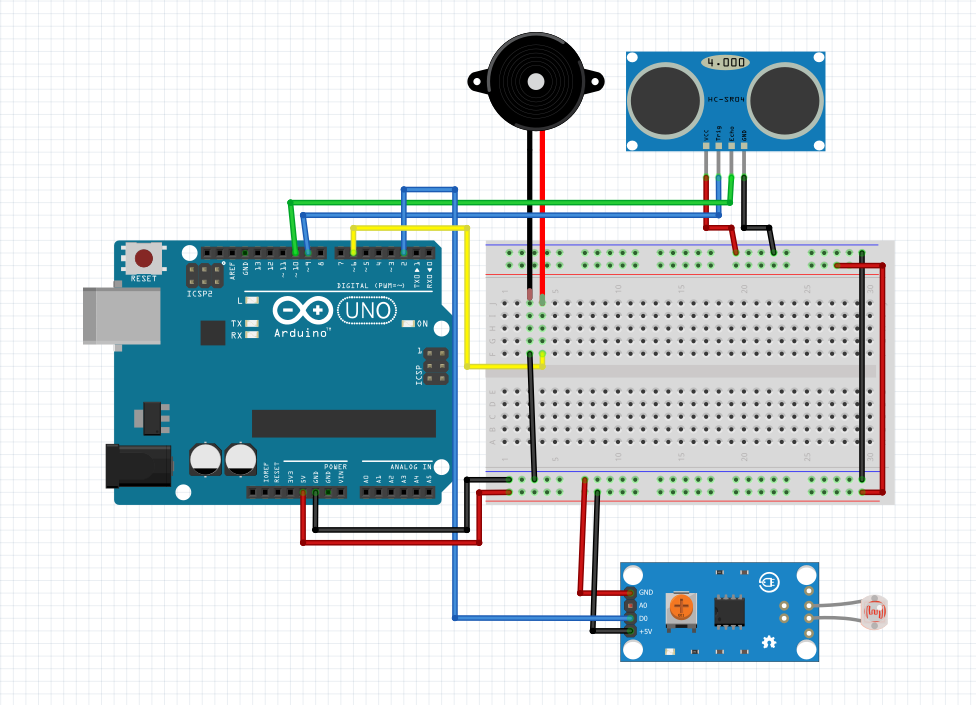
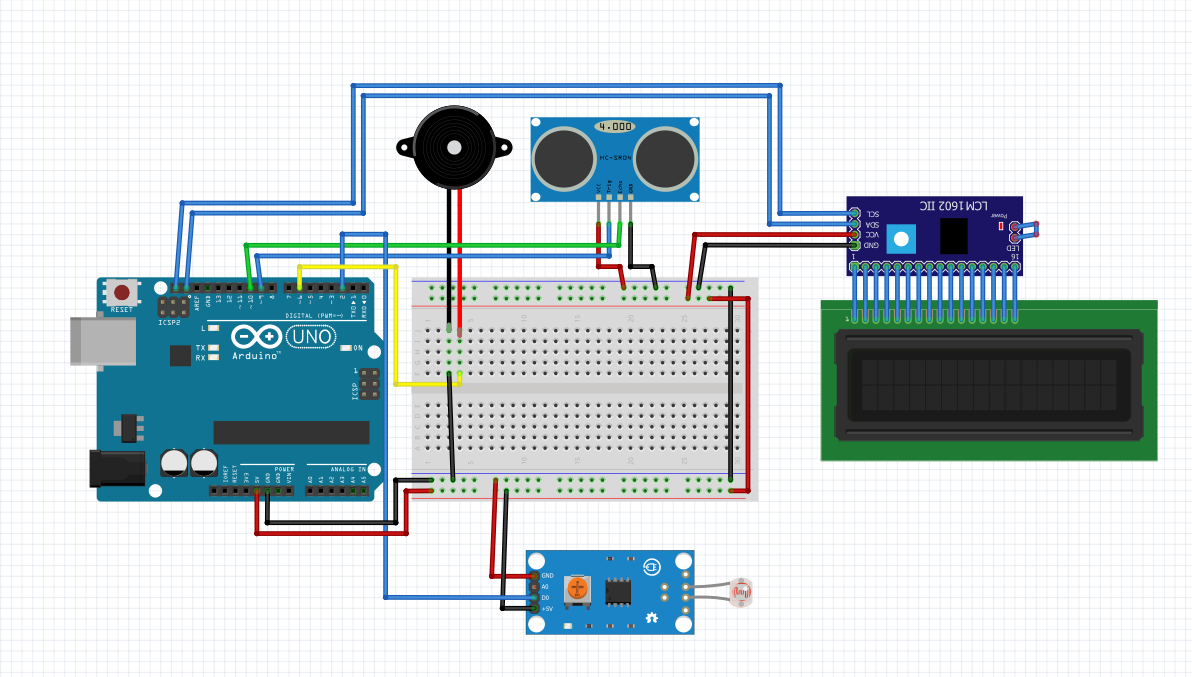
change schematic

diff --git a/README.md b/README.md
@@ -1,1 +1,13 @@
 # Buzzer Bicyle Warning System Using Fuzzy Logic
+
+System crated for warning system on electric bike. Controlled by Arduino Uno microcontroller. Arduino will take 2 input from 
+- HCSR-04 Ultrasonic Sensor
+- Infrared Module
+
+HCSR-04 used for to take calculate nearest distance from object ahead of bicycle and Infrared Module used for calculate the speed of the bicycle
+
+So, the input parameter for the system is Distance object ahead and Speed of the bicyle
+
+System using this schematic
+
+![schematic](Schematic.png)
